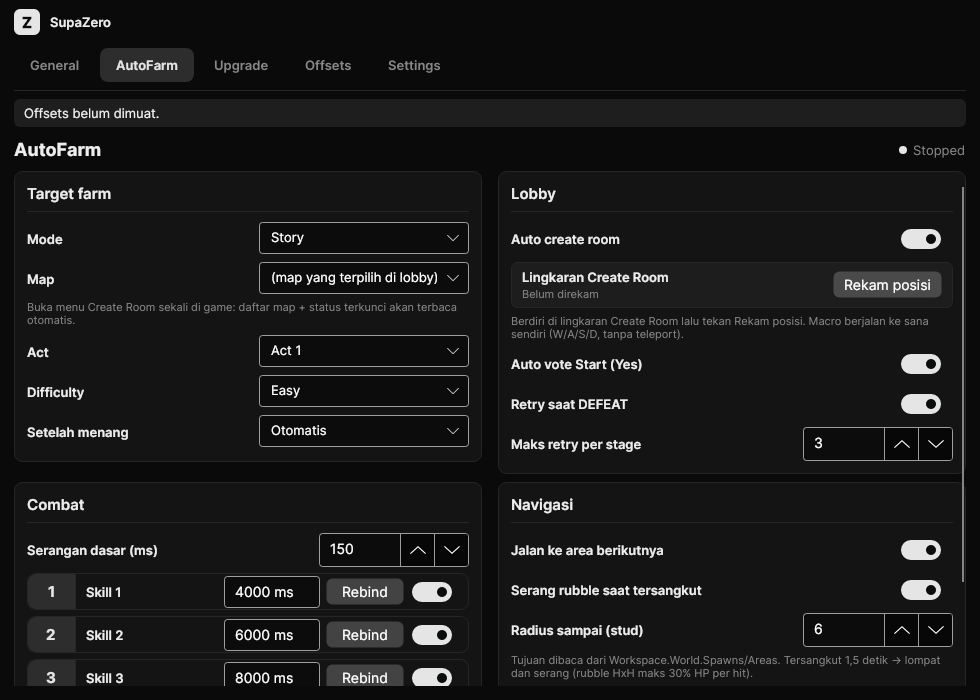
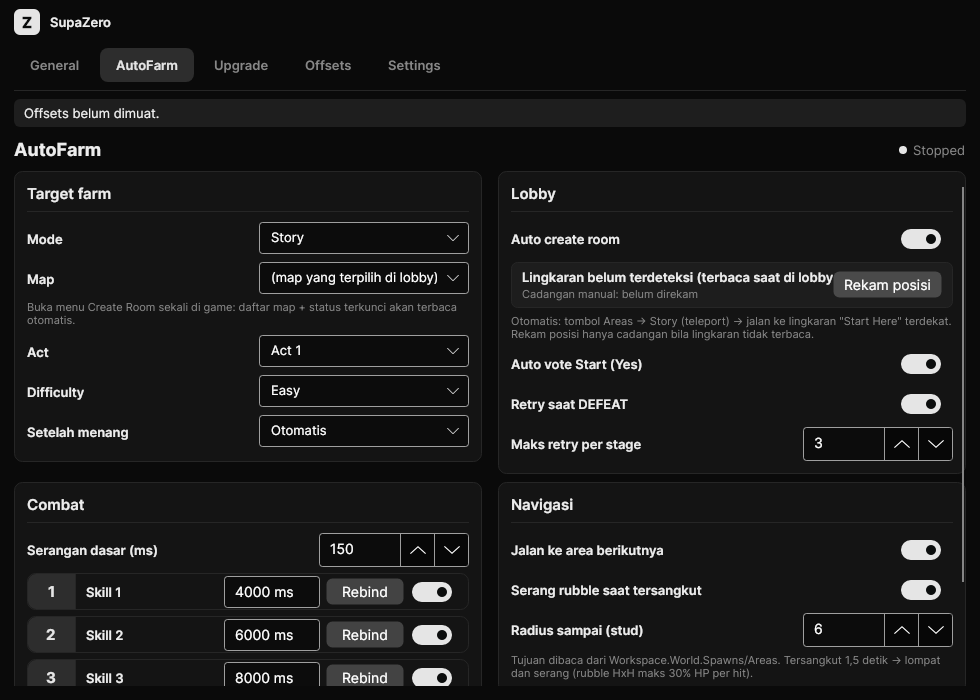
v0.2.1: lobby via tombol Areas → teleport Story, deteksi lingkaran 'Start Here' di Workspace lalu jalan ke sana

Changed region(s): [[0.5204, 0.39, 0.9796, 0.48]]

diff --git a/src/SupaZero.Core/Game/GameReader.cs b/src/SupaZero.Core/Game/GameReader.cs
@@ -57,7 +57,7 @@ public sealed class GameReader(InstanceReader reader, PropertyReader props)
         var hud = HudText.Parse(hudRaw);
         var playerPos = ReadPlayerPos(roots.LocalPlayer);
 
-        return new GameSnapshot
+        var snap = new GameSnapshot
         {
             Attached = true,
             PlayerPos = playerPos,
@@ -88,6 +88,131 @@ public sealed class GameReader(InstanceReader reader, PropertyReader props)
             Slots = treeShown ? ReadSlots(tree, pg) : [],
             BuyButton = treeShown ? VisibleRect(Find(Find(tree, AnimeZeroPaths.BuyFrame), AnimeZeroPaths.BuyButton), pg) : null,
         };
+        if (snap.Screen != GameScreen.Lobby) return snap;
+        var (areas, cards) = ScanHub(pg);
+        return snap with { AreasButton = areas, TeleportCards = cards, StartCircles = ScanCircles(ws) };
+    }
+
+    // ---------- Hub lobby ----------
+
+    private long _hubAt;
+    private (GuiRect?, IReadOnlyList<LobbyEntry>) _hub = (null, []);
+    private long _circlesWs, _circlesAt;
+    private IReadOnlyList<Settings.Vec3> _circles = [];
+
+    /// <summary>Tombol "Areas" + kartu "Click to Teleport" di PlayerGui (scan teks terlihat, maks tiap 700 ms).</summary>
+    private (GuiRect?, IReadOnlyList<LobbyEntry>) ScanHub(long pg)
+    {
+        long now = Environment.TickCount64;
+        if (now - _hubAt < 700) return _hub;
+        _hubAt = now;
+        GuiRect? areas = null;
+        var cards = new List<LobbyEntry>();
+        foreach (var (node, text) in VisibleTexts(pg, 5000))
+        {
+            if (areas is null && text.Trim().Equals(AnimeZeroPaths.AreasButtonText, StringComparison.OrdinalIgnoreCase))
+                areas = Rect(ClickableAncestor(node));
+            else if (text.Contains(AnimeZeroPaths.TeleportCardHint, StringComparison.OrdinalIgnoreCase))
+            {
+                long card = ClickableAncestor(node);
+                string? title = SiblingTitle(reader.GetParent(node), node);
+                if (title is not null) cards.Add(new LobbyEntry(title.Trim(), false, false, Rect(card)));
+            }
+        }
+        return _hub = (areas, cards);
+    }
+
+    /// <summary>BFS PlayerGui yang melewati ScreenGui mati / GuiObject tak terlihat; hasil = (node teks, isi teks).</summary>
+    private IEnumerable<(long Node, string Text)> VisibleTexts(long root, int maxNodes)
+    {
+        if (root == 0) yield break;
+        var q = new Queue<long>();
+        q.Enqueue(root);
+        int seen = 0;
+        while (q.Count > 0 && seen++ < maxNodes)
+        {
+            long node = q.Dequeue();
+            string cls = reader.GetClassName(node);
+            if (cls == "ScreenGui" && reader.Offsets.TryResolve("GuiObject.ScreenGui_Enabled", out long eo) && M.TryReadByte(node + eo, out byte e) && e == 0) continue;
+            if (PropertyReader.IsGuiObject(cls))
+            {
+                if (reader.Offsets.TryResolve("GuiObject.Visible", out long vo) && M.TryReadByte(node + vo, out byte v) && v == 0) continue;
+                if (PropertyReader.IsTextClass(cls) && Text(node) is { Length: > 0 } t) yield return (node, t);
+            }
+            foreach (long c in reader.GetChildren(node, 256)) q.Enqueue(c);
+        }
+    }
+
+    /// <summary>Naik maks 4 level ke ImageButton/TextButton; tidak ada → induk langsung (kartu) atau node itu.</summary>
+    private long ClickableAncestor(long node)
+    {
+        long cur = node;
+        for (int i = 0; i < 4 && cur != 0; i++)
+        {
+            string cls = reader.GetClassName(cur);
+            if (cls is "ImageButton" or "TextButton") return cur;
+            cur = reader.GetParent(cur);
+        }
+        long parent = reader.GetParent(node);
+        return parent != 0 && PropertyReader.IsGuiObject(reader.GetClassName(parent)) ? parent : node;
+    }
+
+    /// <summary>Teks lain di bawah induk yang sama (judul kartu, mis. "Story").</summary>
+    private string? SiblingTitle(long parent, long except)
+    {
+        if (parent == 0) return null;
+        foreach (long c in reader.GetChildren(parent, 64))
+        {
+            if (c == except) continue;
+            if (FirstText(c, 0) is { } t && !t.Contains(AnimeZeroPaths.TeleportCardHint, StringComparison.OrdinalIgnoreCase)) return t;
+        }
+        return null;
+    }
+
+    /// <summary>
+    /// Lingkaran Create Room: cari teks "Start Here" (BillboardGui/SurfaceGui) di Workspace lalu ambil posisi part
+    /// induknya (Adornee bila diisi). Statis per server lobby → cache; kosong → scan ulang tiap 3 dtk.
+    /// </summary>
+    private IReadOnlyList<Settings.Vec3> ScanCircles(long ws)
+    {
+        long now = Environment.TickCount64;
+        if (ws == _circlesWs && (_circles.Count > 0 || now - _circlesAt < 3000)) return _circles;
+        _circlesWs = ws;
+        _circlesAt = now;
+        var found = new List<Settings.Vec3>();
+        if (ws == 0) return _circles = found;
+        var q = new Queue<(long Node, int Depth)>();
+        q.Enqueue((ws, 0));
+        int seen = 0;
+        while (q.Count > 0 && seen++ < 25000)
+        {
+            var (node, depth) = q.Dequeue();
+            string cls = reader.GetClassName(node);
+            if (reader.GetName(node) == AnimeZeroPaths.Enemies) continue;
+            if (PropertyReader.IsTextClass(cls) && Text(node) is { } t && t.Contains(AnimeZeroPaths.StartCircleText, StringComparison.OrdinalIgnoreCase))
+            {
+                if (PartAbove(node) is { } pos && !found.Any(f => Automation.Navigator.Distance2D(f.X, f.Z, pos.X, pos.Z) < 2)) found.Add(pos);
+                continue;
+            }
+            if (depth >= 9) continue;
+            foreach (long c in reader.GetChildren(node, 1024)) q.Enqueue((c, depth + 1));
+        }
+        return _circles = found;
+    }
+
+    private Settings.Vec3? PartAbove(long node)
+    {
+        long cur = reader.GetParent(node);
+        for (int i = 0; i < 6 && cur != 0; i++)
+        {
+            if (reader.GetClassName(cur) is "BillboardGui" or "SurfaceGui"
+                && reader.Offsets.TryResolve("Misc.Adornee", out long ao) && M.TryReadPointer(cur + ao, out long ad) && ad != 0
+                && props.TryGetWorldPosition(ad, out float ax, out float ay, out float az))
+                return new(ax, ay, az);
+            if (props.TryGetWorldPosition(cur, out float x, out float y, out float z)) return new(x, y, z);
+            cur = reader.GetParent(cur);
+        }
+        return null;
     }
 
     /// <summary>

diff --git a/src/SupaZero.Core/Automation/FarmMachine.cs b/src/SupaZero.Core/Automation/FarmMachine.cs
@@ -92,24 +92,53 @@ public sealed class FarmMachine(Func<AppSettings> settings)
 
     // ---------- Lobby ----------
 
+    /// <summary>Lingkaran lebih jauh dari ini → teleport dulu lewat tombol Areas.</summary>
+    public const double TeleportIfFartherThan = 45;
+
+    /// <summary>
+    /// Lobby: lingkaran "Start Here" terdekat ≤ 45 stud → jalan ke sana. Lebih jauh / tidak terbaca → tombol Areas →
+    /// kartu teleport (Story) → muncul dekat lingkaran. Posisi rekaman manual hanya cadangan.
+    /// </summary>
     private List<MacroAction> WalkToLobby(GameSnapshot s, AppSettings S, long now)
     {
         var f = S.Farm;
         if (!f.AutoCreateLobby) return Wait("Di lobby (Auto create room mati).");
-        if (f.LobbyCircle is not { } target)
-        {
-            Phase = MacroPhase.Lobby;
-            Status = "Posisi lingkaran Create Room belum direkam.";
-            return Note("no-circle", now, 8000, "Rekam dulu posisi lingkaran Create Room (tab AutoFarm → Rekam posisi saat berdiri di lingkaran).");
-        }
         Phase = MacroPhase.WalkingToLobby;
-        var walk = WalkTo(s, target, S.Navigation.ArriveRadius, now, "lingkaran Create Room", attackWhenStuck: false);
-        if (walk.Count == 0)
+
+        Vec3? target = null;
+        double dist = double.MaxValue;
+        if (s.PlayerPos is { } p)
         {
-            Status = "Sudah di lingkaran, menunggu menu Create Room terbuka.";
-            return [new MoveAction([], "Sampai"), .. Note("circle-wait", now, 6000, "Sudah di lingkaran tapi menu Create Room belum terbuka. Cek posisi rekaman.")];
+            foreach (var c in s.StartCircles.Append(f.LobbyCircle).OfType<Vec3>())
+            {
+                double d = Navigator.Distance2D(p.X, p.Z, c.X, c.Z);
+                if (d < dist) { dist = d; target = c; }
+            }
         }
-        return walk;
+
+        if (target is not null && dist <= TeleportIfFartherThan)
+        {
+            var walk = WalkTo(s, target, S.Navigation.ArriveRadius, now, "lingkaran Create Room", attackWhenStuck: false);
+            if (walk.Count > 0) return walk;
+            Status = "Di lingkaran, menunggu menu Create Room.";
+            return [new MoveAction([], "Sampai"), .. Note("circle-wait", now, 6000, "Sudah di lingkaran tapi menu Create Room belum terbuka.")];
+        }
+
+        // Teleport lewat Areas → kartu sesuai mode (Story bila tidak ada kartu bernama mode itu).
+        var card = s.TeleportCards.FirstOrDefault(c => Matches(c.Name, f.Mode.ToString()))
+                   ?? s.TeleportCards.FirstOrDefault(c => Matches(c.Name, nameof(FarmMode.Story)));
+        if (card?.Rect is { } cr)
+        {
+            Status = $"Teleport: Areas → {card.Name}";
+            return Ready("tp-card", now, 4000) ? [new MoveAction([], "Teleport"), new ClickAction(cr.CenterX, cr.CenterY, $"Teleport {card.Name}")] : [];
+        }
+        if (s.AreasButton is { } ab)
+        {
+            Status = "Buka Areas untuk teleport.";
+            return Ready("areas", now, 3000) ? [new MoveAction([], "Teleport"), new ClickAction(ab.CenterX, ab.CenterY, "Tombol Areas")] : [];
+        }
+        Status = "Lingkaran Create Room dan tombol Areas tidak terbaca.";
+        return [new MoveAction([], "Tunggu"), .. Note("no-hub", now, 8000, "Tombol Areas / lingkaran 'Start Here' tidak terbaca. Cek di RIE atau rekam posisi lingkaran manual.")];
     }
 
     private List<MacroAction> LobbyMenu(GameSnapshot s, AppSettings S, long now)

diff --git a/tests/SupaZero.Core.Tests/FarmMachineTests.cs b/tests/SupaZero.Core.Tests/FarmMachineTests.cs
@@ -69,10 +69,24 @@ public class FarmMachineTests
     }
 
     [Fact]
-    public void Lobby_WalksToRecordedCircle()
+    public void Lobby_FarCircle_UsesAreasTeleport()
     {
-        var (m, _) = New(s => s.Farm = s.Farm with { LobbyCircle = new Vec3(30, 0, 0) });
-        var snap = new GameSnapshot { Attached = true, PlayerPos = new Vec3(0, 0, 0), CameraLook = (0, -1) };
+        var (m, _) = New();
+        var hub = new GameSnapshot
+        {
+            Attached = true, PlayerPos = new Vec3(0, 0, 0), CameraLook = (0, -1),
+            StartCircles = [new Vec3(300, 0, 0)], AreasButton = new GuiRect(40, 540, 80, 80),
+        };
+        Assert.Equal("Tombol Areas", Real(m.Step(hub, 0)).OfType<ClickAction>().Single().Reason);
+        var panel = hub with { TeleportCards = [new LobbyEntry("Story", false, false, new GuiRect(50, 80, 390, 170))] };
+        Assert.Equal("Teleport Story", Real(m.Step(panel, 5000)).OfType<ClickAction>().Single().Reason);
+    }
+
+    [Fact]
+    public void Lobby_NearDetectedCircle_Walks()
+    {
+        var (m, _) = New();
+        var snap = new GameSnapshot { Attached = true, PlayerPos = new Vec3(0, 0, 0), CameraLook = (0, -1), StartCircles = [new Vec3(30, 0, 0)] };
         var move = Assert.IsType<MoveAction>(Assert.Single(Real(m.Step(snap, 0))));
         Assert.Equal([VirtualKeys.D], move.Keys); // look -Z → kanan = +X
     }

diff --git a/src/SupaZero.App/ViewModels/FarmViewModel.cs b/src/SupaZero.App/ViewModels/FarmViewModel.cs
@@ -81,7 +81,10 @@ public sealed class FarmViewModel : ObservableObject
     public bool AutoVoteStart { get => S.Farm.AutoVoteStart; set => Farm(f => f with { AutoVoteStart = value }); }
     public bool RetryOnDefeat { get => S.Farm.RetryOnDefeat; set => Farm(f => f with { RetryOnDefeat = value }); }
     public decimal MaxRetries { get => S.Farm.MaxRetriesPerStage; set => Farm(f => f with { MaxRetriesPerStage = (int)value }); }
-    public string CircleText => S.Farm.LobbyCircle is { } c ? c.ToString() : "Belum direkam";
+    public string CircleText => S.Farm.LobbyCircle is { } c ? "Cadangan: " + c : "Cadangan manual: belum direkam";
+    public string DetectedText => _root.Snapshot.StartCircles.Count is int n and > 0
+        ? $"Terdeteksi {n} lingkaran \"Start Here\""
+        : "Lingkaran belum terdeteksi";
 
     public RelayCommand RecordCircleCommand => new(_ =>
     {
@@ -113,6 +116,7 @@ public sealed class FarmViewModel : ObservableObject
     /// <summary>Simpan daftar map terbaru dari snapshot (saat menu Create Room terbuka).</summary>
     public void Refresh()
     {
+        Raise(nameof(DetectedText));
         var maps = _root.Snapshot.LobbyMaps;
         if (maps.Count == 0) return;
         var known = maps.Select(m => new KnownMap(m.Name, m.Locked)).ToList();

diff --git a/src/SupaZero.Core/Game/GameSnapshot.cs b/src/SupaZero.Core/Game/GameSnapshot.cs
@@ -28,6 +28,13 @@ public sealed record GameSnapshot
     /// <summary>Posisi area berikutnya (Workspace.World.Spawns/Areas[Area+1]).</summary>
     public Settings.Vec3? NextAreaPos { get; init; }
 
+    // Lobby hub: tombol Areas (HUD kiri) → panel MATCHES "Click to Teleport" → dekat lingkaran "Start Here".
+    public GuiRect? AreasButton { get; init; }
+    /// <summary>Kartu teleport di panel Areas (Name = judul kartu, mis. "Story").</summary>
+    public IReadOnlyList<LobbyEntry> TeleportCards { get; init; } = [];
+    /// <summary>Lingkaran Create Room terdeteksi: part yang memuat teks "Start Here" di Workspace.</summary>
+    public IReadOnlyList<Settings.Vec3> StartCircles { get; init; } = [];
+
     // Lobby
     public bool LobbyMenuOpen { get; init; }
     public IReadOnlyList<LobbyEntry> LobbyModes { get; init; } = [];

diff --git a/src/SupaZero.Core/Game/AnimeZeroPaths.cs b/src/SupaZero.Core/Game/AnimeZeroPaths.cs
@@ -37,6 +37,11 @@ public static class AnimeZeroPaths
 
     // Lobby CREATE LOBBY
     public const string LobbyRoot = "UI Animation (Finished).Quque.MainFrame";
+    // Hub lobby (screenshot Byzan 23 Okt 2026): tombol HUD "Areas" → kartu "Click to Teleport" → lingkaran "Start Here".
+    public const string AreasButtonText = "Areas";
+    public const string TeleportCardHint = "Click to Teleport";
+    public const string StartCircleText = "Start Here";
+
     public const string LobbyModesList = "ModesList";   // [V]
     public const string LobbyMapsList = "MapsList";
     public const string LobbyActsList = "ActsList";

diff --git a/docs/ROADMAP.md b/docs/ROADMAP.md
@@ -5,7 +5,8 @@ Status: v0.2.0 (23 Okt 2026), AutoFarm. Belum diuji live.
 ## Sudah ada
 - Attach read-only + auto-reattach saat teleport lobby ↔ stage.
 - AutoFarm: mode Story/Infinite/Defend/Raid/Trials, setelah menang Otomatis/Next/Retry/Leave.
-- Jalan ke lingkaran Create Room (posisi direkam) dan ke area berikutnya: W/A/S/D relatif kamera (Navigator), tanpa teleport.
+- Lobby: tombol HUD Areas → kartu "Click to Teleport" Story → deteksi lingkaran (teks "Start Here" di Workspace) → jalan ke sana; posisi rekaman hanya cadangan.
+- Jalan ke area berikutnya: W/A/S/D relatif kamera (Navigator), tanpa teleport.
 - Tersangkut → lompat + serang (rubble HxH).
 - Deteksi daftar map/act/mode di Create Room + status terkunci (heuristik), map tersimpan untuk dropdown.
 - Tombol skill per baris: Rebind seperti hotkey, toggle, cooldown masing-masing.
@@ -13,6 +14,7 @@ Status: v0.2.0 (23 Okt 2026), AutoFarm. Belum diuji live.
 - Upgrade SkillTree: prioritas kolom, BuyButton, verifikasi token turun.
 
 ## Perlu verifikasi di RIE ([V] di `AnimeZeroPaths.cs`)
+- Teks HUD "Areas", kartu "Click to Teleport" + judul "Story", dan BillboardGui "Start Here" berada di/atas part lingkaran.
 - StartVote + Yes, EndScreen + Next/Retry/Leave, ResultText, BossBar.
 - `ModesList`, `MapsList`, `ActsList`: struktur entri, penanda terkunci ("*Lock*") dan terpilih ("*Select*").
 - `Workspace.World.Spawns/Areas[n]` benar-benar titik area ke-n.

diff --git a/README.md b/README.md
@@ -34,7 +34,7 @@ Offsets: tab **Offsets** → **Unduh terbaru** (disimpan ke `%AppData%\SupaZero\
 
 ## Alur macro
 
-1. **Lobby**: jalan (W/A/S/D, tanpa teleport) ke lingkaran Create Room yang kamu rekam di tab AutoFarm.
+1. **Lobby**: klik tombol **Areas** → kartu **Story** (Click to Teleport) → deteksi lingkaran "Start Here" → jalan ke sana (W/A/S/D).
 2. **Create Room**: pilih Mode → Map (berhenti bila map/act terkunci) → Act → Difficulty → Start (`StaerButton`).
 3. **Start Game?** → Yes.
 4. **Ronde**: selama `Workspace.enemies` berisi musuh → klik kiri + tombol skill sesuai cooldown masing-masing.
